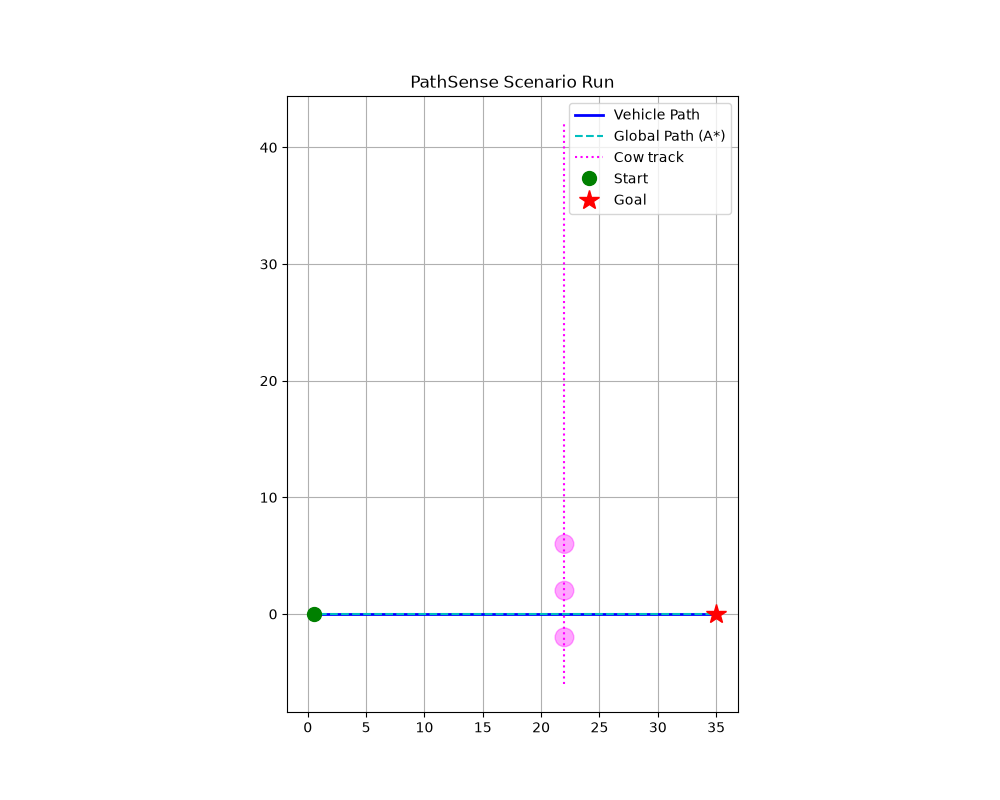
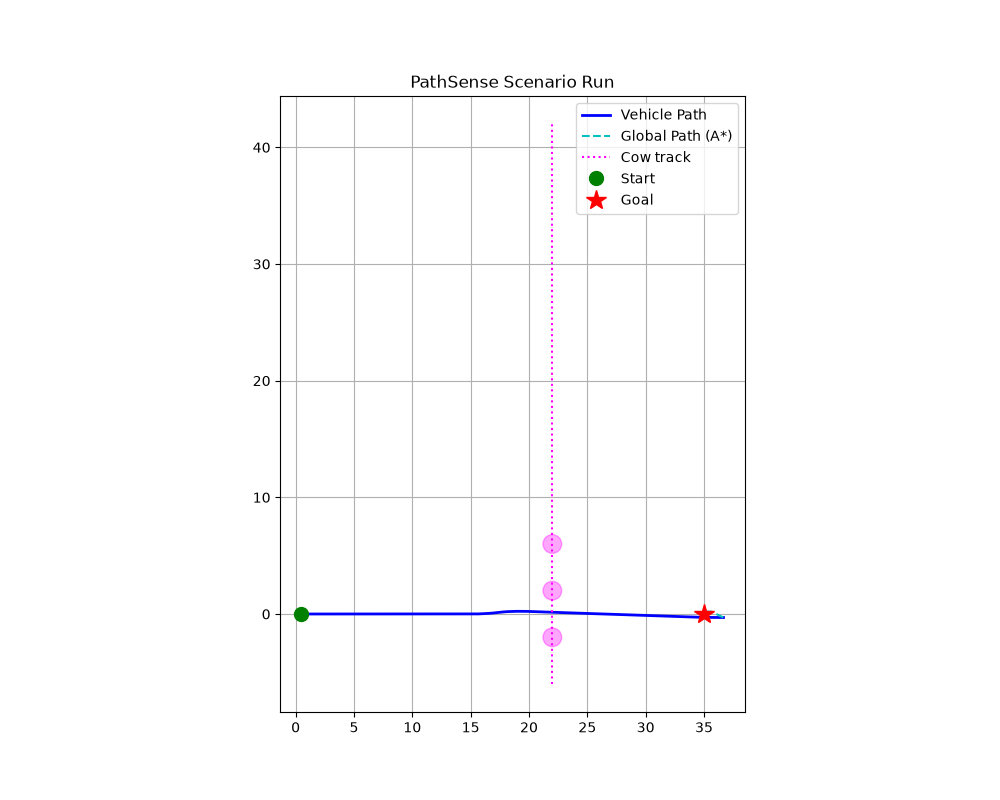
straigh course

diff --git a/src/mapping/costmap.py b/src/mapping/costmap.py
@@ -104,41 +104,28 @@ class LocalGridCostmapBuilder:
 
         return np.where(distance > self.road_network.half_width, 1.0, 0.0).astype(np.float32)
 
-    def _add_obstacle(
-        self,
-        data: np.ndarray,
-        obs: Obstacle,
-        origin_x: float,
-        origin_y: float,
-    ) -> None:
+    def _add_obstacle(self, data, obs, origin_x, origin_y):
         height, width = data.shape
-
-        radius = max(obs.length, obs.width) / 2.0 + self.cfg.inflation_radius
-        if radius <= 0.0:
-            return
-
+        extent = max(obs.length, obs.width) / 2.0 + self.cfg.inflation_radius
         cx = int(round((obs.pose.x - origin_x) / self.cfg.resolution))
         cy = int(round((obs.pose.y - origin_y) / self.cfg.resolution))
-
-        r_cells = int(math.ceil(radius / self.cfg.resolution))
-
-        if (
-            cx < -r_cells
-            or cy < -r_cells
-            or cx >= width + r_cells
-            or cy >= height + r_cells
-        ):
+        r = int(math.ceil(extent / self.cfg.resolution))
+        x0, x1 = max(0, cx - r), min(width - 1, cx + r)
+        y0, y1 = max(0, cy - r), min(height - 1, cy + r)
+        if x0 > x1 or y0 > y1:
             return
-
-        min_x = max(0, cx - r_cells)
-        max_x = min(width - 1, cx + r_cells)
-        min_y = max(0, cy - r_cells)
-        max_y = min(height - 1, cy + r_cells)
-
-        for y in range(min_y, max_y + 1):
-            for x in range(min_x, max_x + 1):
-                dist = math.hypot(x - cx, y - cy) * self.cfg.resolution
-                if dist <= radius:
-                    cost = 1.0 - (dist / (radius + 1e-6))
-                    if cost > data[y, x]:
-                        data[y, x] = cost
+        xs = origin_x + np.arange(x0, x1 + 1) * self.cfg.resolution
+        ys = origin_y + np.arange(y0, y1 + 1) * self.cfg.resolution
+        X, Y = np.meshgrid(xs, ys)
+        dx, dy = X - obs.pose.x, Y - obs.pose.y
+        c, s = math.cos(obs.pose.heading), math.sin(obs.pose.heading)
+        lx = dx * c + dy * s
+        ly = -dx * s + dy * c
+        clear_x = np.abs(lx) - obs.length / 2.0
+        clear_y = np.abs(ly) - obs.width / 2.0
+        inside = (clear_x <= 0) & (clear_y <= 0)
+        d = np.where(inside, 0.0, np.hypot(np.maximum(clear_x, 0), np.maximum(clear_y, 0)))
+        cost = np.clip(1.0 - d / (self.cfg.inflation_radius + 1e-6), 0.0, 1.0)
+        cost[inside] = 1.0
+        window = data[y0:y1 + 1, x0:x1 + 1]
+        np.maximum(window, cost, out=window)

diff --git a/src/sim/metrics.py b/src/sim/metrics.py
@@ -28,24 +28,26 @@ def calculate_avg_jerk(log: RunLog, dt: float = 0.1) -> float:
         jerks.append(abs(a2 - a1) / dt)
     return sum(jerks) / len(jerks)
 
-def calculate_min_ttc(log: RunLog, obstacles_at: Callable[[float], List[Obstacle]]) -> float:
-    """Calculates minimum Time-To-Collision with dynamic obstacles."""
-    min_ttc = float('inf')
-    ego_r = 1.15  # Rough ego radius (width/2 + padding)
-    
+from src.common.utils.geometry import oriented_rect_clearance
+
+def calculate_min_ttc(log, obstacles_at, ego_half_width: float = 0.95):
+    min_ttc = float("inf")
     for t, state in zip(log.times, log.states):
+        evx = state.twist.vx * math.cos(state.pose.heading)
+        evy = state.twist.vx * math.sin(state.pose.heading)
         for obs in obstacles_at(t):
-            if not obs.is_dynamic: continue
-            dx = obs.pose.x - state.pose.x
-            dy = obs.pose.y - state.pose.y
+            if not obs.is_dynamic:
+                continue
+            dx, dy = obs.pose.x - state.pose.x, obs.pose.y - state.pose.y
             dist = math.hypot(dx, dy)
-            v_rel = state.twist.vx  # Simplified relative velocity
-            
-            if v_rel > 0.5 and dist > ego_r:
-                # TTC = distance_to_surface / closing_speed
-                clearance = dist - ego_r - max(obs.length, obs.width)/2
-                if clearance > 0:
-                    ttc = clearance / v_rel
-                    min_ttc = min(min_ttc, ttc)
-                    
-    return min_ttc if min_ttc != float('inf') else -1.0
+            if dist < 1e-6:
+                return 0.0
+            ux, uy = dx / dist, dy / dist
+            closing = (evx - obs.velocity.vx) * ux + (evy - obs.velocity.vy) * uy
+            if closing > 0.5:
+                clear = oriented_rect_clearance(state.pose.x, state.pose.y,
+                                                obs.pose.x, obs.pose.y, obs.pose.heading,
+                                                obs.length, obs.width) - ego_half_width
+                if clear > 0:
+                    min_ttc = min(min_ttc, clear / closing)
+    return min_ttc if min_ttc != float("inf") else -1.0

diff --git a/src/integration/safety_monitor.py b/src/integration/safety_monitor.py
@@ -42,13 +42,16 @@ class EnvelopeSafetyMonitor:
                 return self._reject(f"Trajectory exceeds curvature envelope ({pt.curvature:.3f} > {max_curvature:.3f})")
 
         # Predictive collision check (constant-velocity obstacle prediction)
-        ego_r = self.cfg.width / 2.0 + 0.2
+        ego_r = self.cfg.width / 2.0 + 0.2   # ego modeled as circle: conservative vs OBB-OBB (SAT)
+        from src.common.utils.geometry import oriented_rect_clearance
         for pt in trajectory.points:
             for obs in obstacles:
                 px = obs.pose.x + obs.velocity.vx * pt.t
                 py = obs.pose.y + obs.velocity.vy * pt.t
-                r = max(obs.length, obs.width) / 2.0 + ego_r + 0.1
-                if math.hypot(pt.pose.x - px, pt.pose.y - py) < r:
+                clear = oriented_rect_clearance(pt.pose.x, pt.pose.y,
+                                                px, py, obs.pose.heading,
+                                                obs.length, obs.width)
+                if clear < ego_r + 0.1:
                     return self._reject(f"Predicted collision at t={pt.t:.2f}s")
 
         return self._ok()

diff --git a/src/common/utils/geometry.py b/src/common/utils/geometry.py
@@ -1,1 +1,20 @@
-"""Geometry utilities."""
+"""Shared obstacle geometry. ALL clearance math in the repo goes through here."""
+import math
+
+
+def oriented_rect_clearance(px: float, py: float,
+                            cx: float, cy: float, heading: float,
+                            length: float, width: float) -> float:
+    """Distance from point (px,py) to the surface of an oriented rectangle.
+    Returns 0.0 if the point is inside the footprint."""
+    dx = px - cx
+    dy = py - cy
+    cos_h = math.cos(heading)
+    sin_h = math.sin(heading)
+    local_x = dx * cos_h + dy * sin_h     # along obstacle's length axis
+    local_y = -dx * sin_h + dy * cos_h    # along obstacle's width axis
+    clear_x = abs(local_x) - length / 2.0
+    clear_y = abs(local_y) - width / 2.0
+    if clear_x <= 0.0 and clear_y <= 0.0:
+        return 0.0
+    return math.hypot(max(clear_x, 0.0), max(clear_y, 0.0))

diff --git a/src/integration/pipeline.py b/src/integration/pipeline.py
@@ -260,9 +260,11 @@ class IntegrationPipeline:
     def _path_invalidated(self, obstacles) -> bool:
         if self._current_global_path is None:
             return False
+        from src.common.utils.geometry import oriented_rect_clearance
         for pt in self._current_global_path.points:
             for obs in obstacles:
-                r = max(obs.length, obs.width) / 2.0 + self._invalidation_margin
-                if math.hypot(pt.pose.x - obs.pose.x, pt.pose.y - obs.pose.y) < r:
+                if oriented_rect_clearance(pt.pose.x, pt.pose.y,
+                                           obs.pose.x, obs.pose.y, obs.pose.heading,
+                                           obs.length, obs.width) < self._invalidation_margin:
                     return True
         return False

diff --git a/src/sim/scenarios/base.py b/src/sim/scenarios/base.py
@@ -91,3 +91,15 @@ class Scenario:
     
     def road_network(self):
         return None
+    
+from src.common.utils.geometry import oriented_rect_clearance
+
+def min_obstacle_clearance(log, obstacles_at, ego_half_width: float = 0.95) -> float:
+    worst = float("inf")
+    for t, state in zip(log.times, log.states):
+        for obs in obstacles_at(t):
+            c = oriented_rect_clearance(state.pose.x, state.pose.y,
+                                        obs.pose.x, obs.pose.y, obs.pose.heading,
+                                        obs.length, obs.width) - ego_half_width
+            worst = min(worst, c)
+    return worst

diff --git a/src/local_planner/local_planner.py b/src/local_planner/local_planner.py
@@ -102,7 +102,7 @@ class DWALocalPlanner:
 
     def plan(self, state, global_path: GlobalPath, costmap: Costmap, obstacles: List[Obstacle]) -> LocalTrajectory:
         target, speed = self._lookahead_target(state, global_path)
-        best = self.dwa.plan(state, target, speed, obstacles, costmap)
+        best = self.dwa.plan(state, target, speed, obstacles, costmap=costmap)
 
         if best is None:
             return self.emergency_stop(state)

diff --git a/src/common/types/config.py b/src/common/types/config.py
@@ -45,3 +45,5 @@ class DWAConfig:
     arrival_radius_m: float = 1.5
     clearance_cap_m: float = 3.0
     stall_penalty: float = 1.5
+    goal_weight: float = 0.5          # weight for goal-proximity score term
+    lethal_threshold: float = 0.9     # costmap cost treated as lethal for rollouts

diff --git a/src/sim/scenarios/sensor_noise.py b/src/sim/scenarios/sensor_noise.py
@@ -12,7 +12,7 @@ from .base import Scenario, ScenarioResult, min_obstacle_clearance
 
 class SensorNoiseScenario(Scenario):
     name = "sensor_noise"
-    duration_s = 12.0
+    duration_s = 18.0
 
     def configs(self) -> Tuple[VehicleConfig, CostmapConfig, DWAConfig]:
         return (
